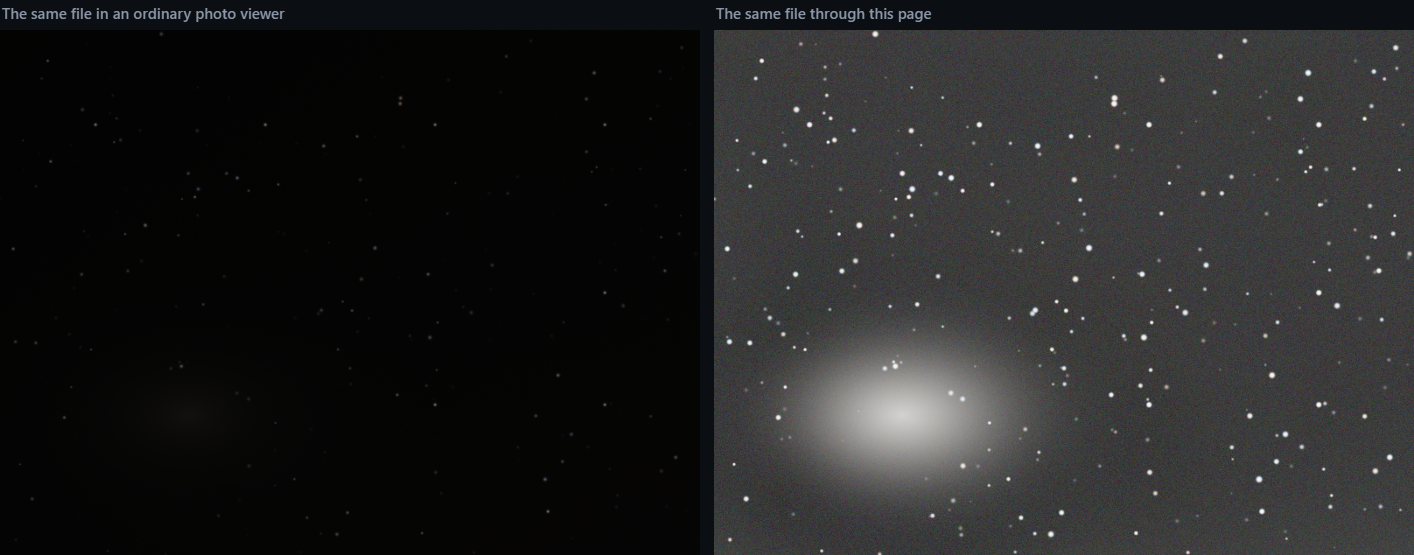
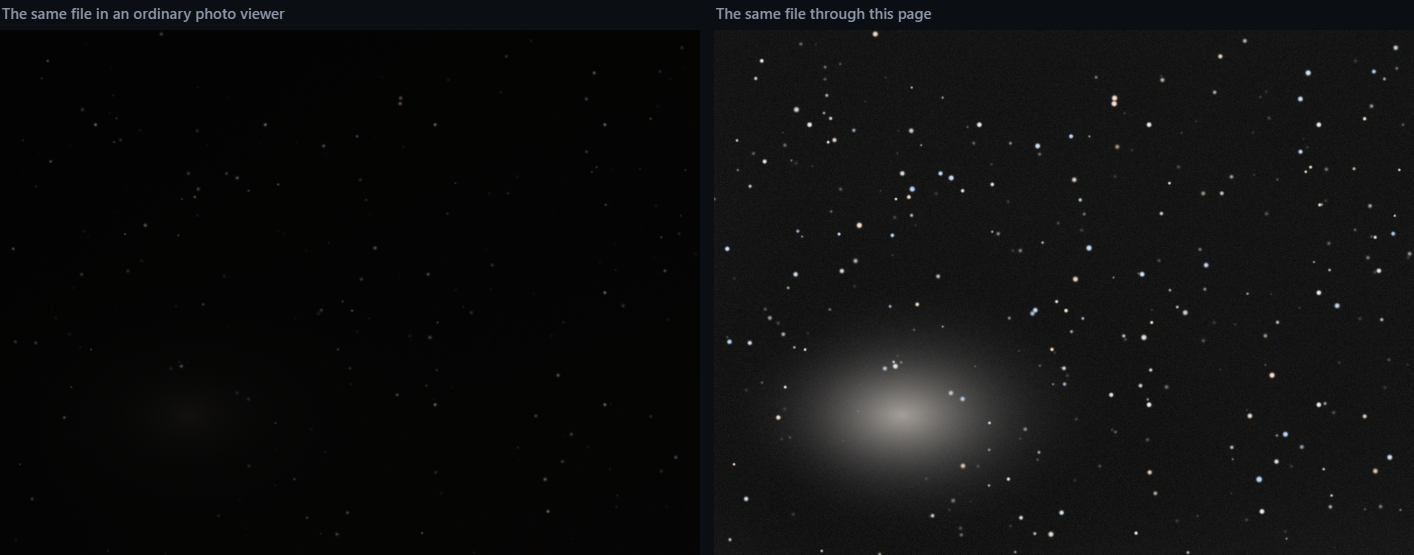
README acompanha o que a ferramenta virou, e a auditoria de publicacao
AUDITORIA DE PUBLICACAO, a mesma da v1.0.0

  ganchos no publicado    __loadFromURL e __state: undefined nos dois
  rede no publicado       zero fetch/XHR/WebSocket/EventSource/sendBeacon/
                          importScripts/<script src>/<link>/<img>/<iframe>/@import
  rede em execucao        uma entrada, blob: -- o Worker, memoria, nao rede
  dado pessoal            nenhum. TELESCOP aparece uma vez como NOME de cartao
                          sendo lido do arquivo do proprio usuario (m.TELESCOP),
                          sem valor embutido; os .fit sao literais de codigo
                          (extensoes aceitas, 'image.fit' padrao, texto de erro)

O README ESTAVA DESATUALIZADO EM TRES LUGARES, e os tres importam

1. O LOG MOSTRADO NAO ERA MAIS O QUE A FERRAMENTA PRODUZ. O bloco vinha de
   antes do Modulo 2 e do 3: sem calibracao de cor, alvo 0.25, esticamento por
   canal. Substituido pelo log atual, que e o mesmo arquivo que
   compare-golden.ps1 confere byte a byte.

   E o log atual mostra a calibracao RECUSANDO neste quadro -- as estrelas estao
   perto demais do ceu. Mantido, e apontado no texto: uma ferramenta que sempre
   produz resposta nao esta medindo.

2. A IMAGEM ESTAVA VELHA PELO MESMO MOTIVO. Regenerada com o pipeline de hoje.
   O fundo cai de 64 para 22 de 255 e as estrelas ganham cor visivel -- azuis e
   alaranjadas -- porque o esticamento ligado preserva a razao que a curva por
   canal achatava. O resultado do Modulo 3 aparece na figura.
[…]

diff --git a/README.md b/README.md
@@ -10,8 +10,10 @@ thing.
 
 *One of the repository's own test frames, before and after. The panel on the
 left is the file exactly as it is stored; the one on the right is what this page
-does with it. Both are generated by `test/fixtures/fixture-gradient.fit`, which
-is synthetic — no one else's data is in this repository.*
+does with it — including the star colours, which survive the stretch instead of
+being washed out by it. Both are generated by
+`test/fixtures/fixture-gradient.fit`, which is synthetic — no one else's data is
+in this repository.*
 
 ---
 
@@ -101,11 +103,14 @@ Processing log — fixture-gradient.fit
 • Background extraction: measured the sky in 108 boxes of 25 pixels on a 12 × 9 grid and used 92 of them (16 brighter than the background were left out). A thin-plate spline through those points is the model that was removed.
     Each channel got its own model median back as a pedestal (R 0.01831, G 0.01658, B 0.01505), so the background level is preserved and only its variation was removed.
     The ratio between channels is therefore unchanged: no colour grading, no white balance, nothing was decided about the colour of the sky.
-• Autostretch — midtones transfer function (PixInsight STF / Siril autostretch), shadow clip -2.80σ, target background 0.25, applied per channel (unlinked). Highlights untouched at 1.000.
-    R  median 0.01848  MADN 0.00139  →  shadows 0.01458  midtones 0.01177
-    G  median 0.01675  MADN 0.00139  →  shadows 0.01287  midtones 0.01171
-    B  median 0.01521  MADN 0.00138  →  shadows 0.01134  midtones 0.01167
-    0.099% of pixels land on pure black or pure white after the transfer.
+• Colour calibration: the sky background was levelled between channels (R 0.001667, G -0.000067, B -0.001601 subtracted, additively, so only the floor moved).
+    Stellar gains: the faintest star median is 0.044710, less than 3x the sky pedestal (0.016824); a ratio taken above the sky is unstable when the star is barely above it.
+    Star selection is a brightness cut, not star detection: bright unsaturated pixels are predominantly stars in a star field. Pixels whose neighbourhood is also mostly selected are rejected as extended, which removes a galaxy core but would also remove a star field dense enough to look like one.
+• Autostretch — midtones transfer function (PixInsight STF / Siril autostretch), shadow clip -2.80σ, target background 0.085 — that is 22 of 255. Applied LINKED: one curve, derived from the luminance, and every channel multiplied by the same number. Highlights untouched at 1.000.
+    Luminance  median 0.01677  MADN 0.00106  →  shadows 0.01380  midtones 0.03144
+    Because one curve governs all three channels, the ratio between them is unchanged by construction. Measured on this frame, the largest change to any channel ratio was 4.4e-16 across 1,918,104 pixels — float rounding, nothing else. In the highlights, R/G 1.0054 → 1.0098 and B/G 0.9994 → 0.9934.
+    405 pixels came out above 1.0 in one channel. All three were divided by their own maximum rather than the bright channel being clipped on its own: clipping one channel changes the colour of the pixel, dividing takes it to white and keeps it.
+    0.087% of pixels were clipped by the transfer itself — luminance at or below the black point, or at or above 1.0. That is a different count from the line above: this one is the curve, that one is the overflow.
 • Output: 8-bit sRGB, full resolution, no resampling. Rounded with ±0.5 of a level of dither, from the fixed seed 20260906, which breaks the banding a subtracted surface would otherwise leave. The seed is fixed, so the same file always produces the same image.
 • Not applied: noise reduction, sharpening, saturation, deconvolution, star removal, colour grading, or any AI or generative step.
 
@@ -118,11 +123,18 @@ compared byte for byte against a stored one. Your own runs print the day you
 ran them.
 
 Every figure there was read off the frame: 92 of 108 sample boxes accepted, a
-median of 0.01676, a per-channel MADN of 0.00139, 0.099% of pixels clipped. If
-the tool ever produced a different one, you would know — that text is stored in
-the repository as `test/golden/gradient-fixture.log.txt` and compared
+luminance median of 0.01677, 405 pixels that overflowed, 0.087% clipped by the
+curve. If the tool ever produced a different one, you would know — that text is
+stored in the repository as `test/golden/gradient-fixture.log.txt` and compared
 **byte for byte** on every run. Not "close enough": exact. A log that drifts by
 one digit is a failure, because the numbers in it are the evidence.
+
+**Read the sixth bullet again.** On this frame the colour calibration levelled
+the sky and then *declined to go further*: the stars here sit too close to the
+sky for a colour measured against them to mean anything, so it says the number,
+says the rule, and stops. That is the part worth having. A tool that always
+produces an answer is not measuring — it is guessing and rounding to something
+plausible, and you would have no way to tell the two apart.
 
 ---
 
@@ -147,8 +159,26 @@ What it *does* do, and says so:
 - reads the FITS, including Rice-compressed `.fz`
 - demosaics a colour-filter-array frame when there is one
 - removes the light-pollution gradient, if it can measure one
-- applies the standard autostretch (the PixInsight/Siril midtones transfer)
+- **levels the sky between the three channels**, by subtraction, so no channel
+  starts higher than the others just because the sky was brighter in it
+- **measures the colour balance from the stars in your own frame** — the ratio
+  of their brightness in each channel, taken above the sky — and applies it as a
+  gain. No catalogue, no plate solve, nothing consulted. If the stars are too
+  faint against the sky for that ratio to mean anything, it says so and does not
+  apply a gain
+- applies the standard autostretch (the PixInsight/Siril midtones transfer),
+  **linked**: one curve derived from the luminance, and all three channels
+  multiplied by the same number, so the ratio between them survives the stretch
+  instead of being flattened by it
 - writes an 8-bit PNG, and a log describing all of the above with numbers
+
+Those middle three are the difference between v1.0 and today. The stretch used
+to run each channel through its own curve, which quietly changes the colour of
+everything — an undeclared white balance, which is the one thing the sentence
+above promises not to do. Measured on a real stack: stellar ratios R/G 1.054 and
+B/G 0.714 going in, R/G 1.008 and B/G 0.950 coming out. The curve ate the
+colour. Now the largest change to any channel ratio is **4.4e-16**, and the log
+prints that number on every run rather than claiming it.
 
 ---
 
@@ -188,7 +218,7 @@ automated:
 | command | the question it answers |
 |---|---|
 | `test\compare-golden.ps1` | is today's output the same as yesterday's? |
-| `test\compare-reference.ps1` | do the numbers agree with a separate implementation, written in Python, that shares none of this code? |
+| `test\compare-reference.ps1` | do the numbers agree with a separate implementation, written in Python, that shares none of this code? (249 comparisons across six test frames; the four that stay unanswered are the ones the Python declines to cover, and it declines them in its own output rather than being excused here) |
 | `test\negative-controls.ps1` | can those checks still fail? (28 deliberate breakages, each of which must be caught) |
 | `test\compare-malformed.ps1` | what happens to a file that lies about itself? (33 broken files — impossible dimensions, a header with no end, a compressed table pointing outside the file — each with the verdict it must keep getting) |
 | `test\compare-truth.js` | is the fitted background the gradient we *put into* the test image — checked against numbers stored in the file's own header, which came from neither implementation? |

diff --git a/NOTAS-SESSAO-FITS.md b/NOTAS-SESSAO-FITS.md
@@ -752,6 +752,49 @@ continuado pulando em silêncio e o buraco ficaria invisível.
 Mesma família da regra dos hashes do MANIFEST e do `Test-Tracked`: **o dado mora
 num lugar só, e quem precisa dele lê de lá.**
 
+## Alimentar uma fórmula com as entradas da outra separa fórmula de entrada
+
+**Quando duas implementações divergem, isso é a primeira medição, não a última.**
+
+Recomputar a grandeza com a **minha fórmula** e as **entradas da outra ponta**, e
+comparar o resultado com o valor dela, responde uma pergunta sozinha: *a fórmula
+é a mesma?* A outra — *as entradas são as mesmas?* — já está respondida nas
+linhas que comparam as entradas.
+
+Custa uma linha de código e decide para que lado investigar.
+
+**Onde funcionou.** `midtones` divergia no `fixture-colour` e no `nonlinear`.
+Alimentada com as entradas deles, a minha fórmula reproduziu os valores deles a
+**2,8e-17** nos dois. Fórmula idêntica, então o defeito estava numa entrada — e a
+entrada era o `target`, que no ramo não-linear é a mediana do próprio quadro e
+não o parâmetro. A referência não tinha o ramo não-linear. Localizado em uma
+medição.
+
+**Onde não foi feito, e quase custou.** No mesmo dia, o `shadows` do mesmo
+fixture divergia em 252 bins, e a hipótese levantada foi *convenção de
+percentil* — nearest-rank contra interpolado, `>=` contra `>`. Eu ia investigar
+o mecanismo do `cumulativeAt`. Não era nada disso: era **a mesma causa do
+`target`**, o ramo não-linear ausente. Quando ele entrou, o `shadows` andou de
+0,233590454 para 0,237432778 sozinho, contra os 0,237430381 daqui — **0,16
+bins**. Nada foi tocado do lado do percentil e não precisava.
+
+**A assimetria que torna isso barato:** a propagação AMPLIFICA. No
+`fixture-colour`, 1,9e-6 de diferença na mediana vira 2,4e-4 em `midtones` —
+131× — porque a MTF é íngreme onde `midtones` vale 0,10. Um valor derivado
+divergindo muito **não** significa que o método divergiu muito; pode ser uma
+entrada divergindo pouco. Sem separar as duas perguntas não há como saber, e a
+tentação é alargar a tolerância até caber, o que esconderia uma divergência de
+fórmula junto.
+
+**A regra:** divergência num valor **derivado** não se investiga pelo mecanismo
+antes de recomputá-lo com as entradas do outro lado. Se bater, o defeito está
+numa entrada e o mecanismo está certo — e a entrada tem nome, aparece numa linha
+própria do comparador, e é onde a investigação começa.
+
+É a versão local da classe "[a cascata começa antes de onde o sintoma
+aparece]": lá a causa estava uma etapa a montante, aqui está uma variável a
+montante. Mesmo erro de foco, mesma correção.
+
 ## Em aberto
 
 **Ordem de linha absoluta para arquivo sem `ROWORDER`.** Nem o `.fz` do Siril
